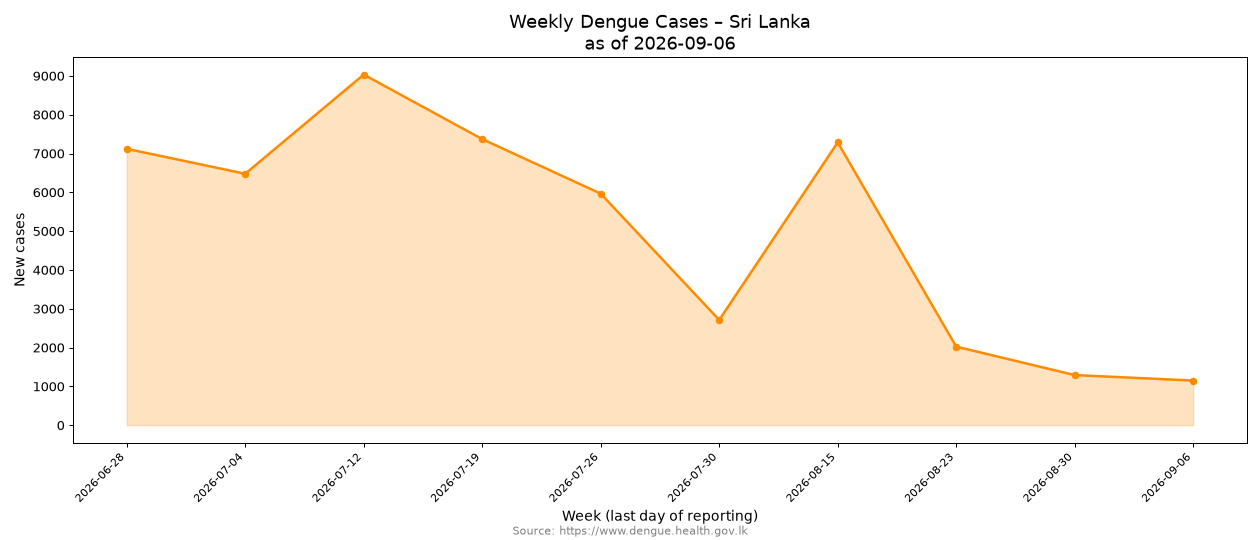
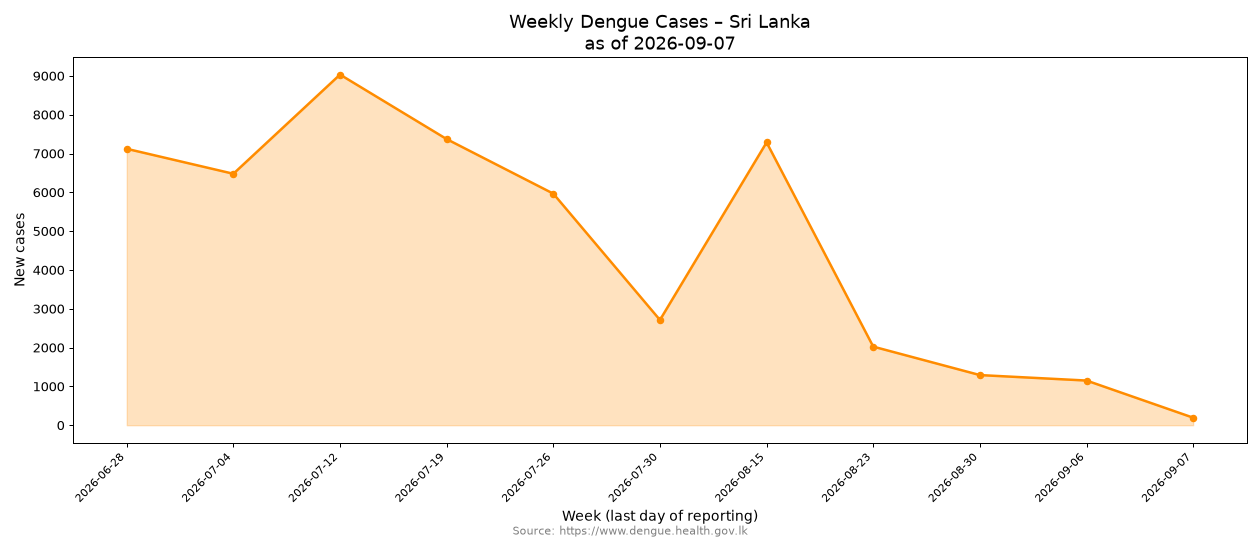
🤖 [pipeline.yml] 2026-09-08-0442

diff --git a/README.md b/README.md
@@ -146,6 +146,7 @@ As of 2026-08-30
 
 ### [National Dengue Control Unit - Daily Update](data/NDCUDaily)
 
+- [2026-09-07](data/NDCUDaily/2026/2026-09/2026-09-07)
 - [2026-09-06](data/NDCUDaily/2026/2026-09/2026-09-06)
 - [2026-09-03](data/NDCUDaily/2026/2026-09/2026-09-03)
 - [2026-09-02](data/NDCUDaily/2026/2026-09/2026-09-02)
